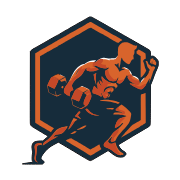
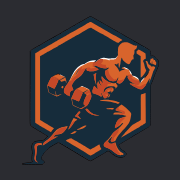
Ícono de la app con fondo grafito (#2b2c31) en vez de blanco
Claude-Session: https://claude.ai/code/session_01EvqYXxUWrK7YBHDTTEksiw

diff --git a/sw.js b/sw.js
@@ -1,7 +1,7 @@
 /* Service worker de Intervalo: estrategia «primero la caché».
    La app (HTML, JS, iconos) se sirve siempre desde el almacenamiento del teléfono,
    al instante y sin internet; si hay red, se actualiza en segundo plano para la próxima vez. */
-const VERSION = 'intervalo-v86';
+const VERSION = 'intervalo-v87';
 const SHELL = [
   './', './index.html', './app.js', './anim.js', './extras.js', './voice.js', './calendar.js', './retos_data.js', './retos.js', './dumbbells.js', './stats.js', './data.js', './i18n.js', './i18n/en.js', './manifest.webmanifest',
   './icons/icon-192.png', './icons/icon-512.png', './icons/maskable-512.png', './icons/apple-touch-icon.png', './icons/logo.svg', './icons/logo-header.svg', './icons/logo-mark.svg'
